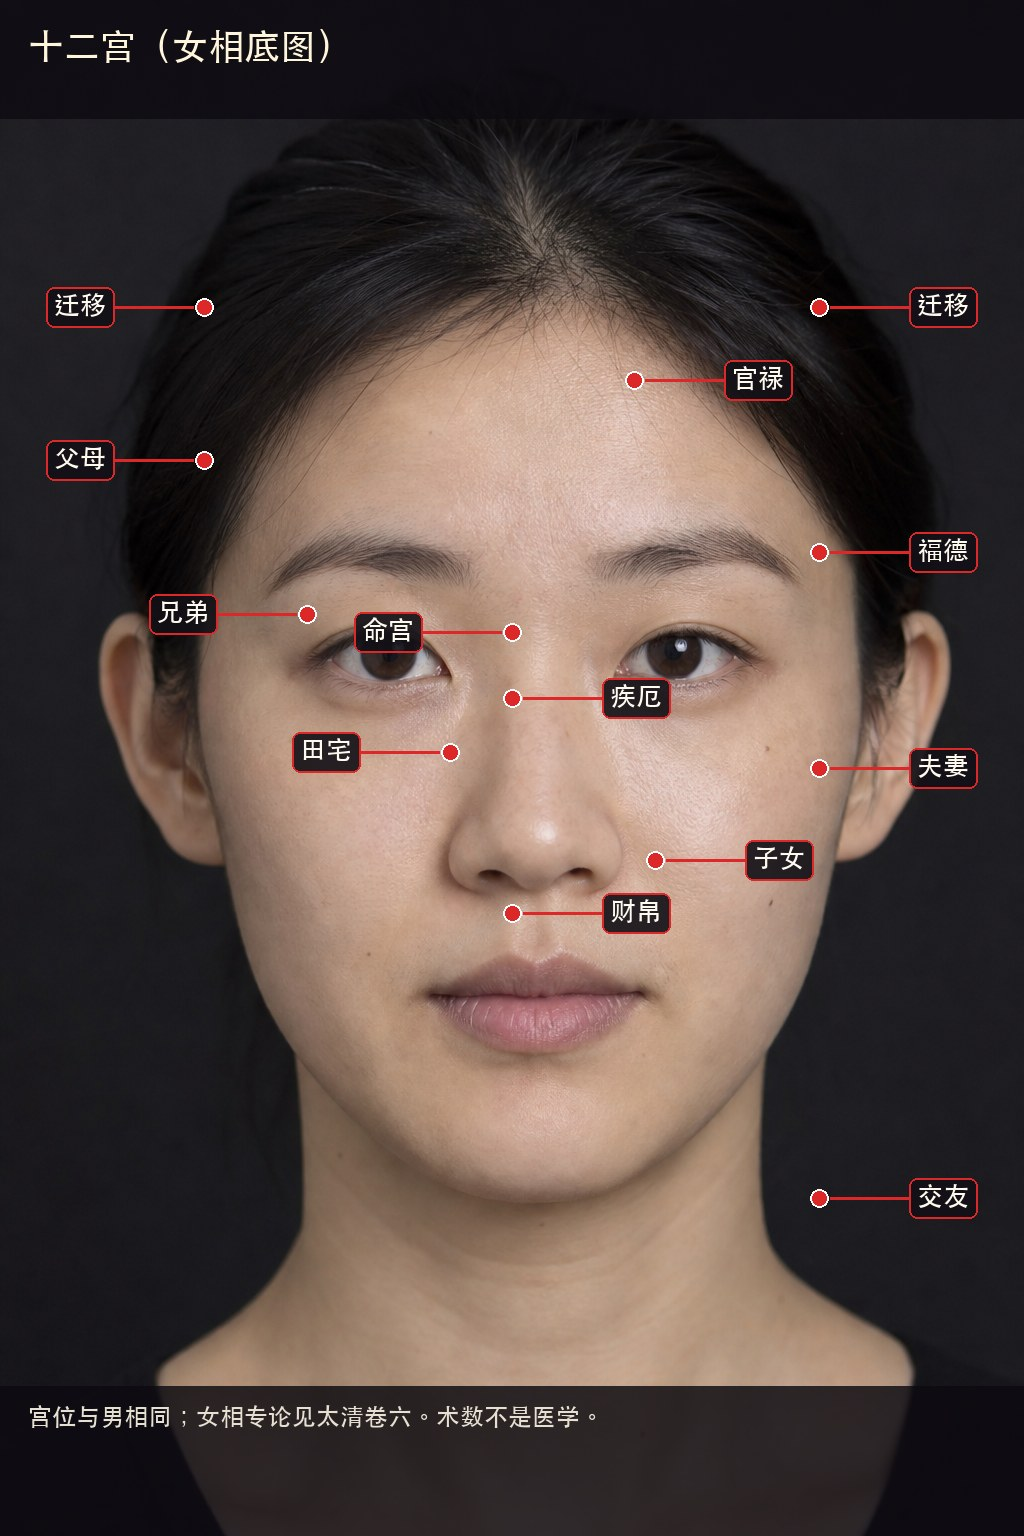
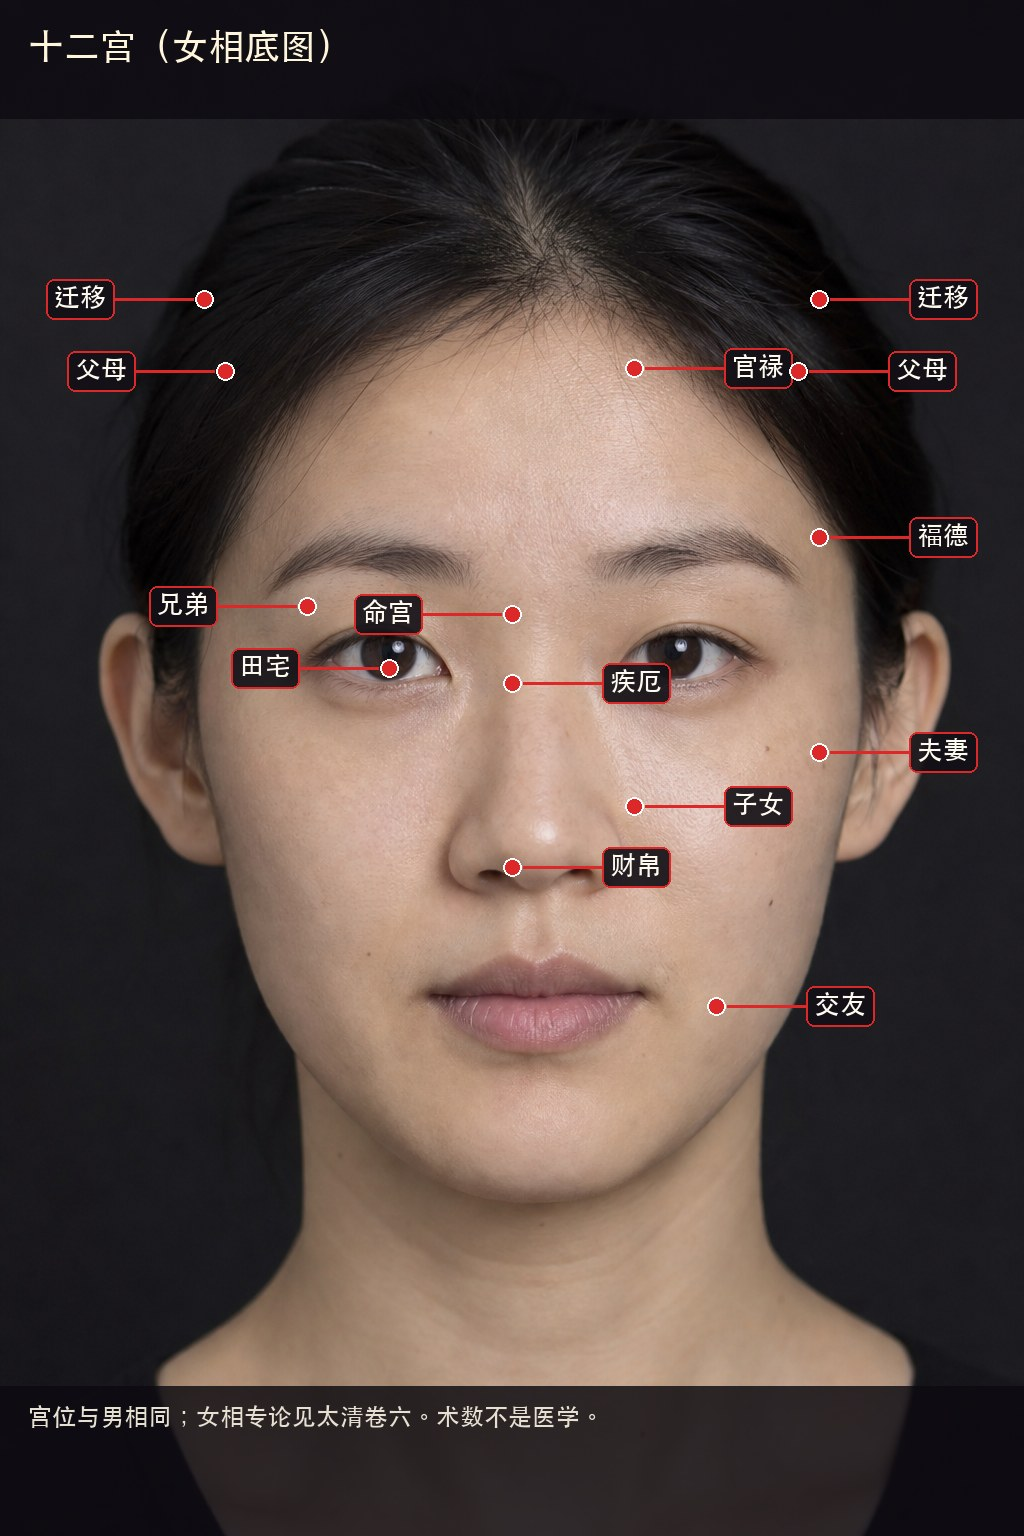
fix: correct xuanxue face landmarks and koujue posters
Move 子女/交友/田宅/父母 off cheek-neck-shangen, keep eye dots off pupils, restore 麻衣五法 and 冰鉴刚柔 wording, and retitle three Taiqing covers.

diff --git a/src/content/notes/xuanxue/mayi-03-houliugong.md b/src/content/notes/xuanxue/mayi-03-houliugong.md
@@ -135,7 +135,7 @@ flowchart TB
 > 难度：进阶
 
 ![交友宫在两腮](/notes-media/inline-xuanxue-face-jiaoyou.jpg)
-*图注：红点与引线标两腮内侧、下巴左右。对应「交友宫——下巴的左右面颊、两腮的内侧的部分」。术数文献，不是医学。*
+*图注：红点与引线标两腮内侧。点在腮，不在颈侧。对应「交友宫——下巴的左右面颊、两腮的内侧的部分」。术数文献，不是医学。*
 
 1、两腮尖削无肉的人，遇不到知心与忠心的朋友，无法相信他人，疑神疑鬼，晚运不佳。
 
@@ -158,7 +158,7 @@ flowchart TB
 > 难度：进阶
 
 ![田宅宫在上眼睑](/notes-media/inline-xuanxue-face-tianzhai.jpg)
-*图注：红点与引线标两眉之间的上眼睑。对应「田宅宫——两眉之间的上眼睑部位」。术数文献，不是医学。*
+*图注：红点与引线标上眼睑。点在睑，不在山根。对应「田宅宫——两眉之间的上眼睑部位」。术数文献，不是医学。*
 
 田宅宫（两眉之间的上眼睑部位）
 
@@ -185,7 +185,7 @@ flowchart TB
 > 难度：进阶
 
 ![父母宫在日月角](/notes-media/inline-xuanxue-face-fumu.jpg)
-*图注：红点与引线标日月角至辅角一带。对应「父母宫——在日月角至辅角的部位，左父右母」。术数文献，不是医学。*
+*图注：红点与引线标日月角。点在额角，不是发际迁移宫。对应「父母宫——在日月角至辅角的部位，左父右母」。术数文献，不是医学。*
 
 1、日月角低陷或凹凸不平的人，父母亲的缘分淡薄，在其早年时生活环境不佳难受良好照顾。
 

diff --git a/src/content/notes/xuanxue/taiqing-09-guti.md b/src/content/notes/xuanxue/taiqing-09-guti.md
@@ -437,7 +437,7 @@ flowchart TB
 **白话：** 眼本清净，所以生神，属木星。要长秀分明，白如玉、黑如漆，耸而入鬓，才是大贵之相。若短小却明、有异光，眼轮转动而能悦人，又贵而有寿。睛凸四露、视有神采，也主权杀。大而无光，长而无神，外无上下眼堂，赤脉相侵，睛视不远，眼频动摇，睡沉而合不拢，瞳黄，都是不善相。董正说：「眼头如眼尾。」开合含异光，旧说是神仙之相，非凡相。更有白刃在前、目光惊溃而眼来不及闪的，主贵权上将。神从眼发，不是眼科。
 
 ![眼部：监察官，神从此发](/notes-media/inline-xuanxue-face-yan.jpg)
-*图注：眼为监察官，神从此发。对应「眼本清净，所以生神」。本卷要长秀分明、白如玉黑如漆；凸露、无神、赤脉、瞳黄都落在这两点上。*
+*图注：眼为监察官，神从此发。点在眼侧，不遮瞳孔。对应「眼本清净，所以生神」。本卷要长秀分明、白如玉黑如漆；凸露、无神、赤脉、瞳黄都落在这两点上。*
 
 ### 腰背
 

diff --git a/src/content/notes/xuanxue/bingjian.md b/src/content/notes/xuanxue/bingjian.md
@@ -103,7 +103,7 @@ flowchart TD
 **白话：** 既识神骨，当辨刚柔。刚柔是五行生克之数，名叫“先天种子”：不足用补，有余用泄。这消息与命相通，是比较明显易见的。
 
 ![刚柔：先天种子](/notes-media/inline-xuanxue-koujue-gangrou.jpg)
-*图注：总名对应「名曰“先天种子”」；外刚柔对应后文「五行为外刚柔」；内刚柔对应「喜怒、跳伏、深浅」。*
+*图注：总名对应「名曰“先天种子”」；外刚柔对应「五行为外刚柔」；内刚柔对应「喜怒、跳伏、深浅」。没有「带杀」。术数文献，不是医学。*
 
 五行有合法，木合火，水合木，此顺而合。顺者多富，即贵亦在浮沉之间。金与火仇，有时合火，推之水土者皆然，此逆而合者，其贵非常。然所谓逆合者，金形带火则然，火形带金，则三十死矣；水形带土则然，土形带水，则孤寡终老矣；木形带金则然，金形带木，则刀剑随身矣。此外牵合，俱是杂格，不入文人正论。
 

diff --git a/src/content/notes/xuanxue/renwuzhi-01-jiuzheng.md b/src/content/notes/xuanxue/renwuzhi-01-jiuzheng.md
@@ -135,7 +135,7 @@ flowchart TD
 **白话：** 若为人：资质平淡，内里睿智外表明朗，筋强骨固，声清气色喜悦，仪容端正，那就是九征都到了，是纯粹之德。九征有所违背，就是偏杂之材。
 
 ![真人九征落点](/notes-media/inline-xuanxue-face-jiuzheng.jpg)
-*图注：九个落点把「神、精、筋、骨、气、色、仪、容、言」标在形上，对应「九征皆至，则纯粹之德也」。神落在目。术数文献，不是医学。*
+*图注：九个落点把「神、精、筋、骨、气、色、仪、容、言」标在形上。神点在眼侧，不遮瞳孔。对应「九征皆至，则纯粹之德也」。术数文献，不是医学。*
 
 三度不同，其德异称。故偏至之材，以材自名；兼材之人，以德为目；兼德之人，更为美号。
 

diff --git a/src/content/notes/xuanxue/mayi-02-qianliugong.md b/src/content/notes/xuanxue/mayi-02-qianliugong.md
@@ -77,7 +77,7 @@ flowchart TB
 **白话：** 上相跳不出这五法。只在口、耳、眉、额、手足、背腹上打转的，是庸相士。
 
 ![麻衣五法口诀图](/notes-media/inline-xuanxue-koujue-wufa.jpg)
-*图注：五格写「一曰肥（骨肉称）、二曰瘦（神气清）、三曰高（停匀）、四曰矮（紧实）、五曰不成不就（忌偏枯）」。本章正文五法是「择交在眼、问贵在眼、问富在鼻、问寿在神、求全在声」，对应上段「上相不出此五法」；图是肥瘦高矮一路总断，名同条异，用来对照总断体例。术数文献，不是医学。*
+*图注：五格为择交在眼、问贵在眼、问富在鼻、问寿在神、求全在声，对应「上相不出此五法」。术数文献，不是医学。*
 
 ### 切相歌
 
